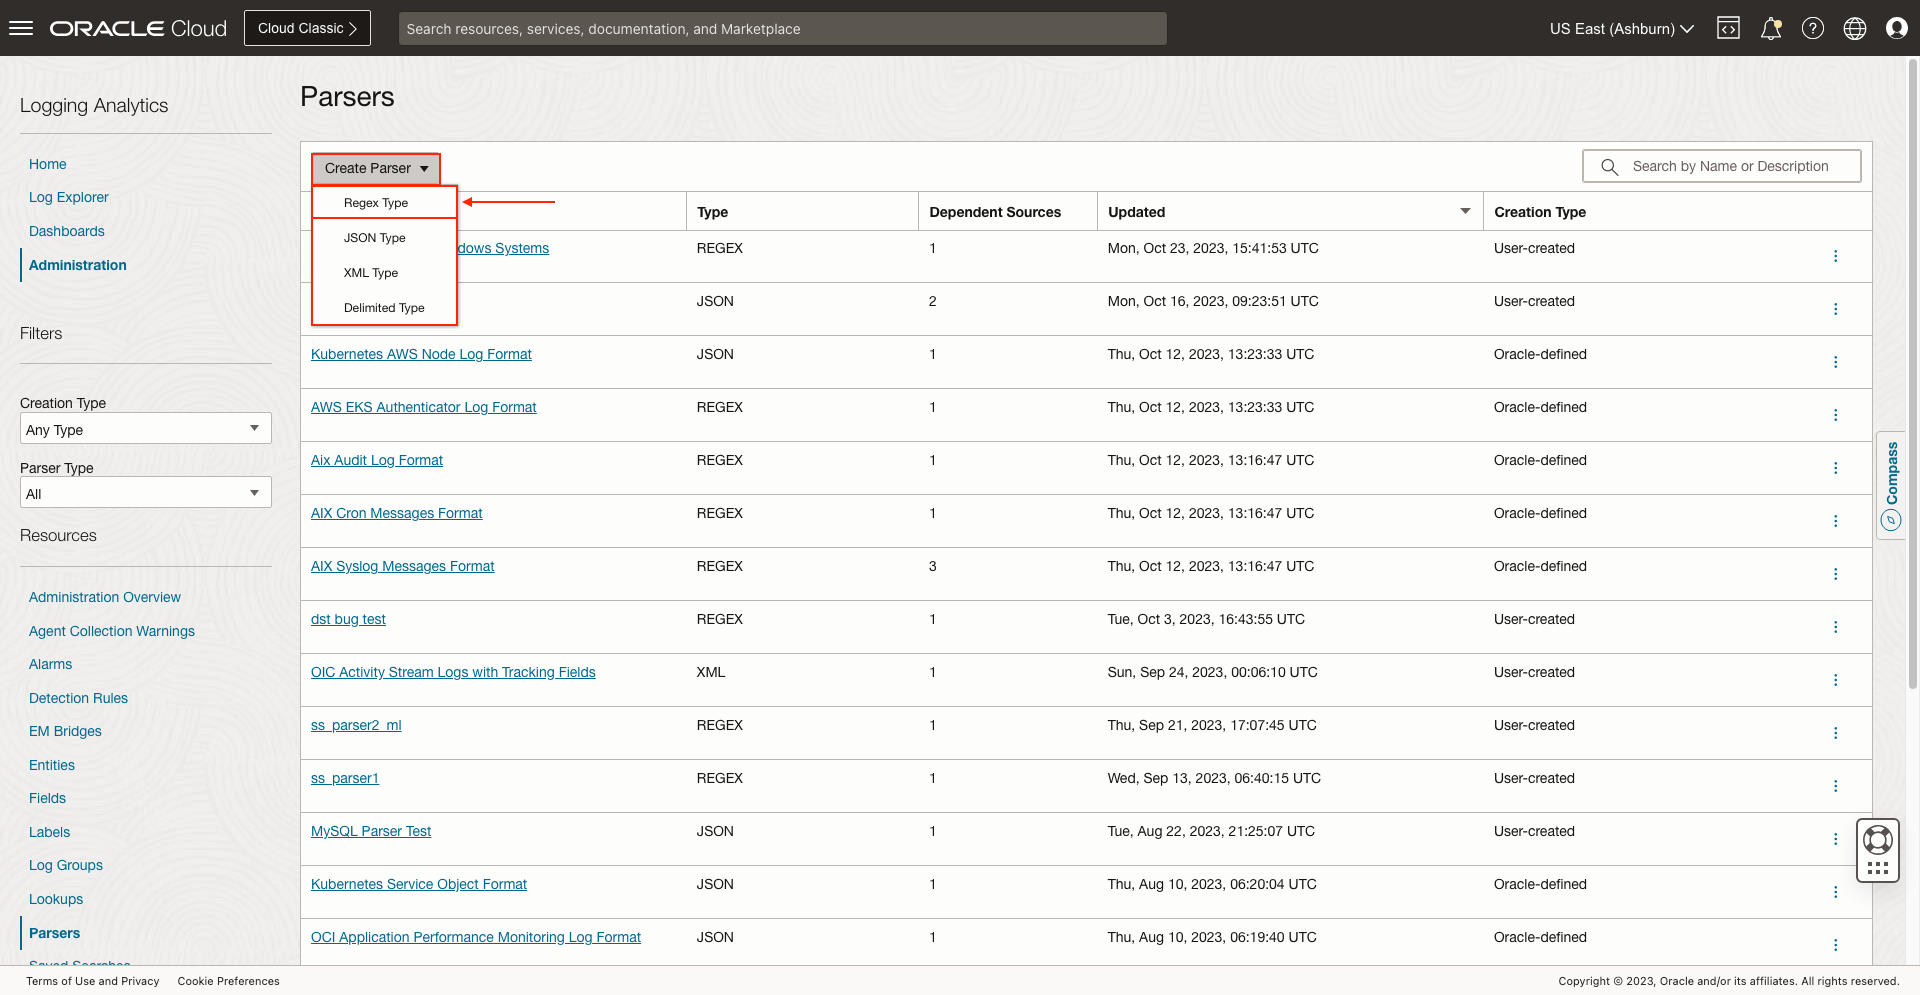
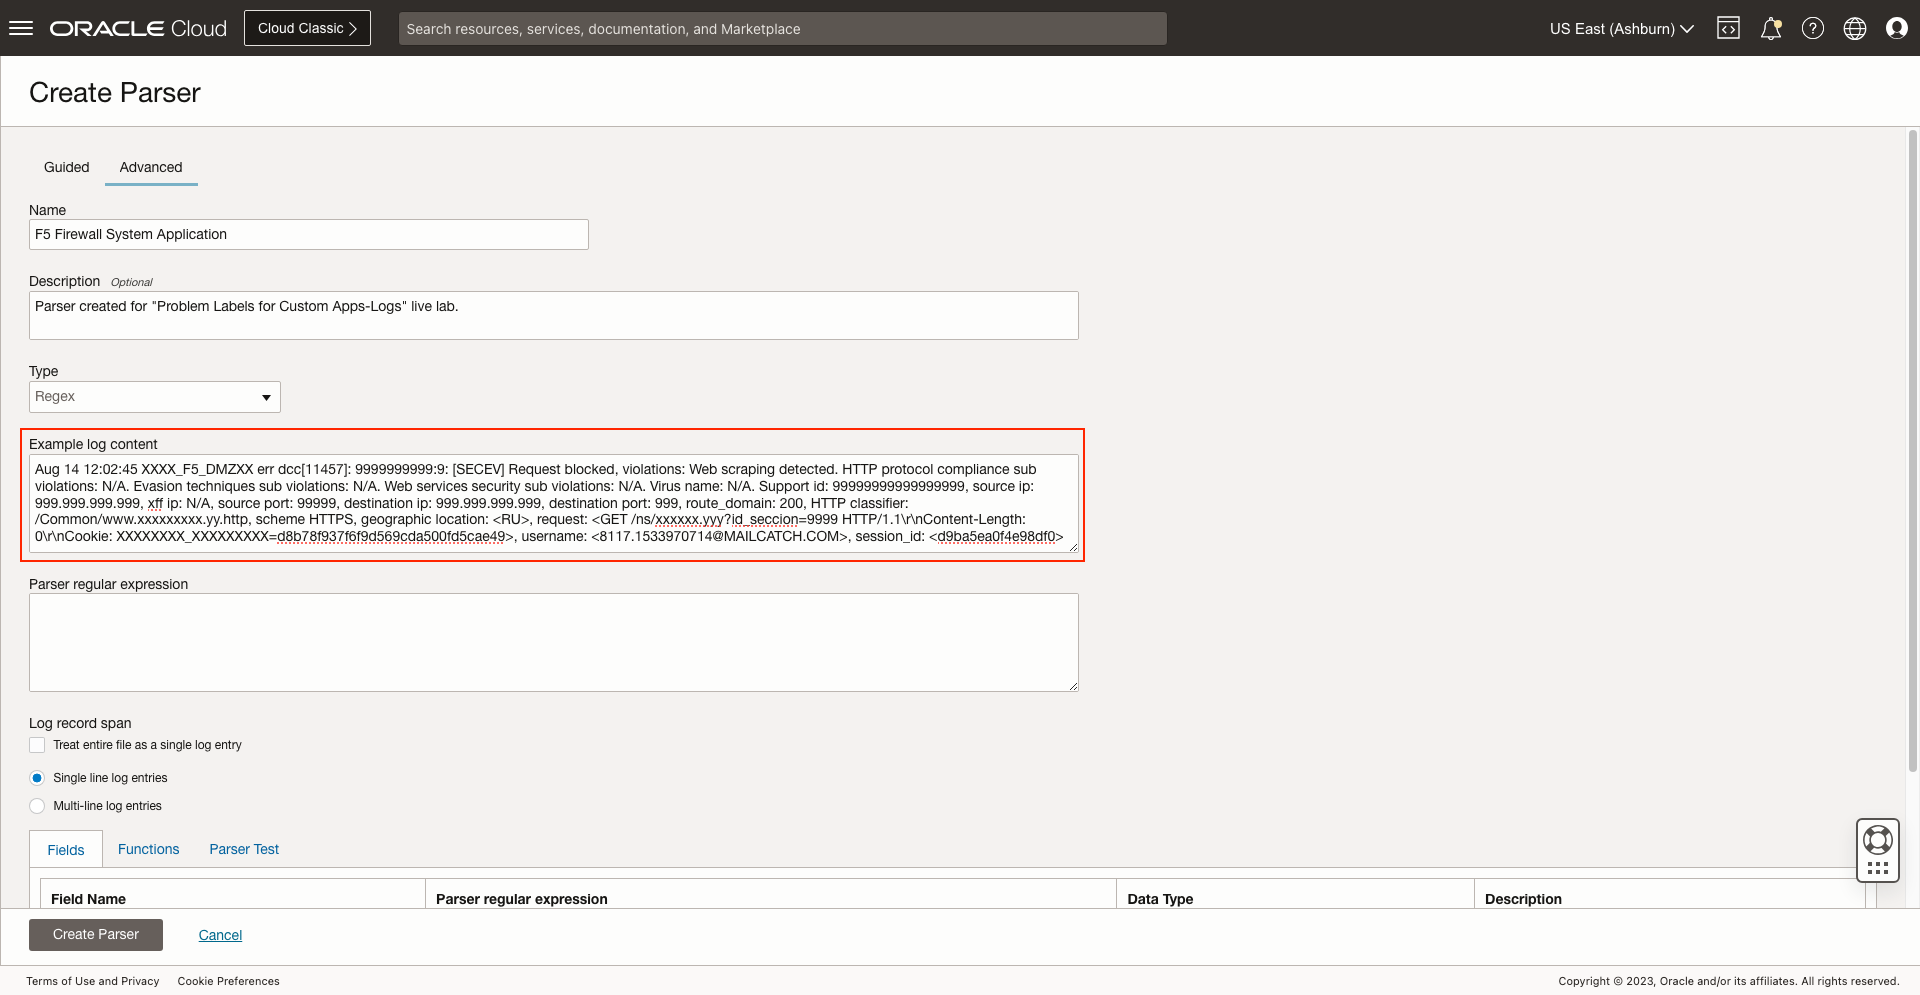
Lab 9 Sprint format

diff --git a/logging-analytics/alarms-detection-rules-la/problem-labels/problem-labels.md b/logging-analytics/alarms-detection-rules-la/problem-labels/problem-labels.md
@@ -1,101 +1,63 @@
-# Problem Labels for Custom Apps-Logs
+# How to create alert on critical event signatures in custom logs?
 
-## Introduction
+Duration: 20 minutes
 
-In this lab, you'll learn best practices for proactively monitoring custom applications. You'll learn how to create custom problem labels, new fields (EFDs, query time).
+## Create Parser
 
-Estimated Lab Time: 20 minutes
+1. Navigate to **Parsers**.
 
+2. Click on **Create Parser** and select **Regex Type**.
 
-### Objectives
+3. Click on **Advanced**.
 
-In this lab, you will:
-* Extract new fields using eval, extract
-* Create new labels & EFDs from log-explorer
-* Create new labels, EFDs in a Log Source
-* Create alarms on new labels and verify
+4. Specify a **Name** and **Description (optional)**.
 
-## **Task 1:**  Navigate to Parsers
+5. Download sample logs file for [Log Sample](./files/f5-firewall-logs.log)
 
-1. Click on the **Administration** option inside the drop-down menu to access to **Administration Overview**.
-![](./images/admin-access.png "UIdescription") 
-
-2. Click on the option **Parsers** inside **Resources** sidebar menu at the left.
-   ![](./images/parsers-navigate-01.png "UIdescription")
-
-  Now you are in **Parsers**.
-   ![](./images/parsers-navigate-02.png "UIdescription")
-
-## **Task 2:**  Create Parser
-
-1. Click on **Create Parser** and select **Regex Type**.
+6. Add the **f5-firewall-logs.log** we downloaded to **Example log content**.
    ![](./images/parsers-create-01.png "UIdescription")
 
-2. Click on **Advanced**. Specify a **Name** and **Description (optional)**.
+7. Specify the following regular expression at **Parser regular expression**: **{TIMEDATE}\s+(.+)**
    ![](./images/parsers-create-02.png "UIdescription")
 
-3. Download sample logs file for [Log Sample](./files/f5-firewall-logs.log)</br>
-   Add the **f5-firewall-logs.log** we downloaded to **Example log content**.
+8. Select **Message** for the second field.
    ![](./images/parsers-create-03.png "UIdescription")
 
-4. Specify the following regular expression at **Parser regular expression**: **{TIMEDATE}\s+(.+)**
-   ![](./images/parsers-create-04.png "UIdescription")
+9. To verify the fields are matching with the example logs we provided, click on **Parser Test** and then on **Run Test**.
 
-5. Select **Message** for the second field.
-   ![](./images/parsers-create-05.png "UIdescription")
+10. Click on **Create Parser**.
 
-7. Click on **Parser Test** and on **Run Test**.
-   ![](./images/parsers-create-06.png "UIdescription")
+## Create User Defined Source
 
-   We verify that the fields are matching with the example logs we provided.
-   ![](./images/parsers-create-07.png "UIdescription")
+1. Navigate to **Sources**.
 
-8. Click on **Create Parser**.
-   ![](./images/parsers-create-08.png "UIdescription")
+2. Click on **Create Source**.
 
-9. The parser is saved successfully.
-   ![](./images/parsers-create-09.png "UIdescription")
+3. Specify the **Name** and **Description (optional)**.
 
-## **Task 3**  Navigate to Sources
-
-1. Click on the option **Sources** inside **Resources** sidebar menu at the left.
-   ![](./images/sources-access.png "UIdescription")
-
-  Now you are in **Sources**.
-   ![](./images/sources-page.png "UIdescription")
-
-## **Task 4:**  Create User Defined Source
-
-1. Click on **Create Source**.
+4. Select **File** as **Source Type** and **Network Firewall** at **Entity Types**.
    ![](./images/source-create-01.png "UIdescription")
 
-2. Specify the **Name** and **Description (optional)**. Select **File** as **Source Type**. Select **Network Firewall** at **Entity Types**.
+5. Make sure the **Specific parser(s)** option is marked and select **F5 Firewall System Application**.
    ![](./images/source-create-02.png "UIdescription")
 
-3. Mark the **Specific parser(s)** option. Then, select **F5 Firewall System Application**.
-   ![](./images/source-create-03.png "UIdescription")
-
-## **Task 5:**  Add Extended Fields
-
-   We are able to create **Extended Fields** derived from existing **Base Fields**. In this case, we will create an **Extended Field** for the **Message** field we created previously in order to get the **Source IP**.
+## Add Extended Fields
 
 1. Click on **Extended Fields** and on **Add**.
    ![](./images/efd-create-01.png "UIdescription")
 
-2. Download example base field content file for [Log Sample](./files/example-base-field-content.log)</br>
-  Select **Message** as **Base Field**. Set the downloaded file content for **Example Base Field Content**. For **Extract Expression** set **source ip:?\s{Source IP:[0-9]{1,3}\.[0-9]{1,3}\.[0-9]{1,3}\.[0-9]{1,3}}**.
+2. Download example base field content file for [Log Sample](./files/example-base-field-content.log)
+
+3. Select **Message** as **Base Field**. Set the downloaded file content for **Example Base Field Content**.
+
+4. For **Extract Expression** set **source ip:?\s{Source IP:[0-9]{1,3}\.[0-9]{1,3}\.[0-9]{1,3}\.[0-9]{1,3}}**.
    ![](./images/efd-create-02.png "UIdescription")
 
-3. Click on **Test Definition** and see more details about test results to verify the match succeeded.
-   ![](./images/efd-create-03.png "UIdescription")
+5. Click on **Test Definition** and see more details about test results to verify the match succeeded.
 
-4. Click on **Add**.
-   ![](./images/efd-create-04.png "UIdescription")
+6. Click on **Add**.
 
-5. The extended field definition is added successfully.
-   ![](./images/efd-create-05.png "UIdescription")
-
-## **Task 6:**  Add Labels
+## Add Labels
 
 1. Click on **Labels** and on **Add conditional label**.
    ![](./images/labels-create-01.png "UIdescription")
@@ -103,132 +65,80 @@ In this lab, you will:
 2. Select **Source IP** as **Input Field** and **Not In** as **Operator**. Add the following IPv4 addresses to **Condition Value**: 192.168.1.101, 192.168.1.102, 192.168.1.103
    ![](./images/labels-create-02.png "UIdescription")
 
-3. Select **Security Problem** label.
+3. At **Select labels** select **Security Problem** label.
    ![](./images/labels-create-03.png "UIdescription")
 
-5. Click on **Add**.
-   ![](./images/labels-create-04.png "UIdescription")
-   
-  The conditional label is added successfully.
-   ![](./images/labels-create-05.png "UIdescription")
+4. Click on **Add**.
 
-## **Task 7:**  Save User Defined Source
+5. Then click on **Create Source**.
 
-1. Click on **Create Source**.
-   ![](./images/source-save-01.png "UIdescription")
-   
-  The source is created successfully.
-   ![](./images/source-save-02.png "UIdescription")
+## Upload logs file
 
-## **Task 8:**  Navigate to Uploads
+1. Navigate to **Uploads**.
 
-1. Click on the option **Uploads** inside **Resources** sidebar menu at the left.
-   ![](./images/uploads-access.png "UIdescription")
+2. Click on **Upload Files**.
 
-  Now you are in **Uploads**.
-   ![](./images/uploads-page.png "UIdescription")
+3. Specify an **Upload Name** and **Log Group Compartment**.
 
-## **Task 9:**  Upload logs file
+4. Select an existing **Log Group** or create a new one.
 
-1. Click on **Upload Files**.
+5. Download sample logs file for [Log Sample](./files/f5-firewall-logs.log)
+
+6. Tweak the file **f5-firewall-logs.log** so the date of the log is less than 1 hour before current UTC time.
    ![](./images/upload-logs-01.png "UIdescription")
 
-2. Specify an **Upload Name** and **Log Group Compartment**.
+7. Click on **Select Files** and select the **f5-firewall-logs.log** file.
    ![](./images/upload-logs-02.png "UIdescription")
 
-3. Select an existing **Log Group** or create a new one.
+8. Click on **Next**.
+
+9. Then click on **Set Properties**.
+
+10. At **Source**, select **Problem Labels for Custom Apps-Logs** which is the source we created previously and click on **Save Changes**.
    ![](./images/upload-logs-03.png "UIdescription")
 
-4. Download sample logs file for [Log Sample](./files/f5-firewall-logs.log)</br>
-   Tweak the file **f5-firewall-logs.log** so the date of the log is less than 1 hour before current UTC time.
-   ![](./images/tweak-logs-01.png "UIdescription")
+11. Click on **Next**.
 
-5. Click on **Select Files** and select the **f5-firewall-logs.log** file.
-   ![](./images/upload-logs-04.png "UIdescription")
-   ![](./images/upload-logs-05.png "UIdescription")
+12. Then click on **Upload**.
 
-6. Click on **Next**.
-   ![](./images/upload-logs-06.png "UIdescription")
+## Create a new Log Search
 
-7. Click on **Set Properties**.
-   ![](./images/upload-logs-07.png "UIdescription")
+1. Navigate to **Log Explorer**.
 
-8. At **Source**, select **Problem Labels for Custom Apps-Logs** which is the source we created previously. Click on **Save Changes**.
-   ![](./images/upload-logs-08.png "UIdescription")
-
-9. Click on **Next**.
-   ![](./images/upload-logs-09.png "UIdescription")
-
-10. Click on **Upload**.
-   ![](./images/upload-logs-10.png "UIdescription")
-
-11. When the **Submission Status** is **Success**, click on **Close**.
-   ![](./images/upload-logs-11.png "UIdescription")
-
-   The logs file is uploaded successfully.
-   ![](./images/upload-logs-12.png "UIdescription")
-
-## **Task 10:**  Navigate to Log Explorer
-
-1. Click on the **Log Explorer** option inside the drop-down menu.
-   ![](./images/log-explorer-access.png "UIdescription")
-
-2. Now you are in **Log Explorer**.
-   ![](./images/log-explorer.png "UIdescription")
-
-## **Task 11:**  Create a new Log Search
-
-1. For this lab, we are going to save a query using **extract** command to add a new field from an existing one. In this case, we want to add a new field derived from the **Message** to obtain the **Destination IP**.
+2. For this lab, we are going to save a query using **extract** command to add a new field from an existing one. In this case, we want to add a new field derived from the **Message** to obtain the **Destination IP**.
   Type the following query in the text input: **'Log Source' = 'Problem Labels for Custom Apps-Logs' | extract field = Message 'destination ip:?\s{Destination IP:[0-9]{1,3}\.[0-9]{1,3}\.[0-9]{1,3}\.[0-9]{1,3}}' | timestats count as logrecords by 'Log Source'**
    ![](./images/log-search-create-01.png "UIdescription")
 
-2. Open the **Time Range** drop-down and click on **Custom**.
+3. Click on **Run** and see the results below.
+
+4. Then click on **Save as...** option inside **Actions** drop-down menu.
    ![](./images/log-search-create-02.png "UIdescription")
 
-3. Mark **Quick Select** and select **Last 90 Days**. Click on **Apply**.
+5. Select a **Saved Search Compartment**. Specify the **Search Name** and the **Search Description (optional)**.
    ![](./images/log-search-create-03.png "UIdescription")
 
-3. Click on **Run** and see the results below.
-   ![](./images/log-search-create-04.png "UIdescription")
+6. Click on **Save** button.
 
-4. Click on **Save as...** option inside **Actions** drop-down menu.
-   ![](./images/log-search-create-05.png "UIdescription")
+## Create Scheduled search detection rule
 
-5. Select a **Saved Search Compartment**. Specify the **Search Name** and the **Search Description (optional)**. Then, click on **Save** button.
-   ![](./images/log-search-create-06.png "UIdescription")
+1. Navigate to **Detection Rules**.
 
-  The log search is saved successfully.
-   ![](./images/log-search-create-07.png "UIdescription")
+2. Click on **Create rule**.
 
-## **Task 12:**  Navigate to Detection Rules
-
-1. Click on the **Administration** option inside the drop-down menu to access to **Administration Overview**.
-   ![](./images/admin-access.png "UIdescription")
-
-2. Click on the option **Detection Rules** inside **Resources** sidebar menu at the left.
-   ![](./images/detection-rules-access.png "UIdescription")
-
-  Now you are in **Detection Rules**.
-   ![](./images/detection-rules.png "UIdescription")
-
-## **Task 13:**  Create Scheduled search detection rule
-
-1. Click on **Create** inside **Detection Rules** page to start creating a new detection rule.
+3. Make sure **Scheduled search detection rule** option is selected.
    ![](./images/scheduled-search-create-01.png "UIdescription")
 
-  We will create a **Scheduled search** type detection rule.
-   ![](./images/scheduled-search-create-02.png "UIdescription")
+4. Specify a **Rule name** and **Saved search compartment**.
 
-2. Specify a **Rule name** and **Saved search compartment**. Then, select **Problem Labels for Custom Apps-Logs** as **Saved search** which is the one we created previously.
-   ![](./images/scheduled-search-create-03.png "UIdescription")
+5. Then select **Problem Labels for Custom Apps-Logs** as **Saved search** which is the one we created previously.
 
-3. Select **Monitoring** as **Target Service**. Specify a **Metric Compartment**, **Metric Namespace** and **Metric Name**. Finally, set the **Interval** to **30 Minutes** and click on **Create detection rule**.
-   ![](./images/scheduled-search-create-04.png "UIdescription")
+6. Select **Monitoring** as **Target Service**. Specify a **Metric Compartment**, **Metric Namespace** and **Metric Name**.
 
-  The detection rule is saved successfully.
-   ![](./images/scheduled-search-create-05.png "UIdescription")
+7. Set the **Interval** to **30 Minutes**.
 
-## **Task 14:**  Create Alarm
+8. Click on **Create detection rule**.
+
+## Create Alarm
 
 1. Click on **Problem Labels for Custom Apps-Logs** Scheduled search type.
    ![](./images/scheduled-search-alarm-01.png "UIdescription")
@@ -237,48 +147,41 @@ In this lab, you will:
    ![](./images/scheduled-search-alarm-02.png "UIdescription")
 
 3. Specify an **Alarm name** and **Alarm body (optional)**. Set **Critical** for **Alarm severity**.
+
+4. Scroll down to **Destination** and click on **Create a topic**.
    ![](./images/scheduled-search-alarm-03.png "UIdescription")
 
-4. Inside **Destination** click on **Create a topic**.
-   ![](./images/scheduled-search-alarm-04.png "UIdescription")
-
 5. Specify a **Topic name** and **Topic description (optional)**. Select **Email** as **Subscription protocol** and specify a **Subscription Email**. Click on **Create topic and subscription**.
-   ![](./images/scheduled-search-alarm-05.png "UIdescription")
 
 6. Click on **Save alarm**.
-   ![](./images/scheduled-search-alarm-06.png "UIdescription")
 
-   The alarm is saved successfully.
-   ![](./images/scheduled-search-alarm-07.png "UIdescription")
+## See Detection Rules and Alarms results
 
-## **Task 15:**  See Detection Rules and Alarms results
+1. Navigate to **Detection Rules**.
 
-1. Navigate to Detection rules **(see Task 12)** and click on **Problem Labels for Custom Apps-Logs** which is the **Detection Rule** we created.
+2. Click on **Problem Labels for Custom Apps-Logs** which is the **Detection Rule** we created.
    ![](./images/results-01.png "UIdescription")
 
-2. At **Results** we can see there has been a **Security Problem**.
+3. At **Results** we can see there has been a **Security Problem**.
    ![](./images/results-02.png "UIdescription")
 
-3. Click on **View In Metric Explorer**.
+4. Click on **View In Metric Explorer**.
+
+5. We can see the same result in the **Metrics Explorer** view.
    ![](./images/results-03.png "UIdescription")
 
-4. We can see the same result in the **Metrics Explorer** view.
+6. Click on the **Navigation menu**.
    ![](./images/results-04.png "UIdescription")
 
-5. Click on the **Navigation menu**.
+7. Then click on **Observability and Management**. Then, click on **Alarm Definitions** inside **Monitoring**.
    ![](./images/results-05.png "UIdescription")
 
-6. Click on **Observability and Management**. Then, click on **Alarm Definitions** inside **Monitoring**.
+8. Finally click on **Problem Labels for Custom Apps-Logs**.
    ![](./images/results-06.png "UIdescription")
 
-7. Click on **Problem Labels for Custom Apps-Logs**.
-   ![](./images/results-07.png "UIdescription")
-
-8. We can see the alarm is **Firing**.
-   ![](./images/results-08.png "UIdescription")
-
+9. We can see the alarm is **Firing**.
 
 ## Acknowledgements
 * **Author** - Oswaldo Osuna, Logging Analytics Development Team
 * **Contributors** -  Kumar Varun, Logging Analytics Product Management - Kiran Palukuri, Logging Analytics Product Management - Vikram Reddy, Logging Analytics Development Team 
-* **Last Updated By/Date** - Oswaldo Osuna, Nov 6 2023
+* **Last Updated By/Date** - Oswaldo Osuna, Dec 4 2023
